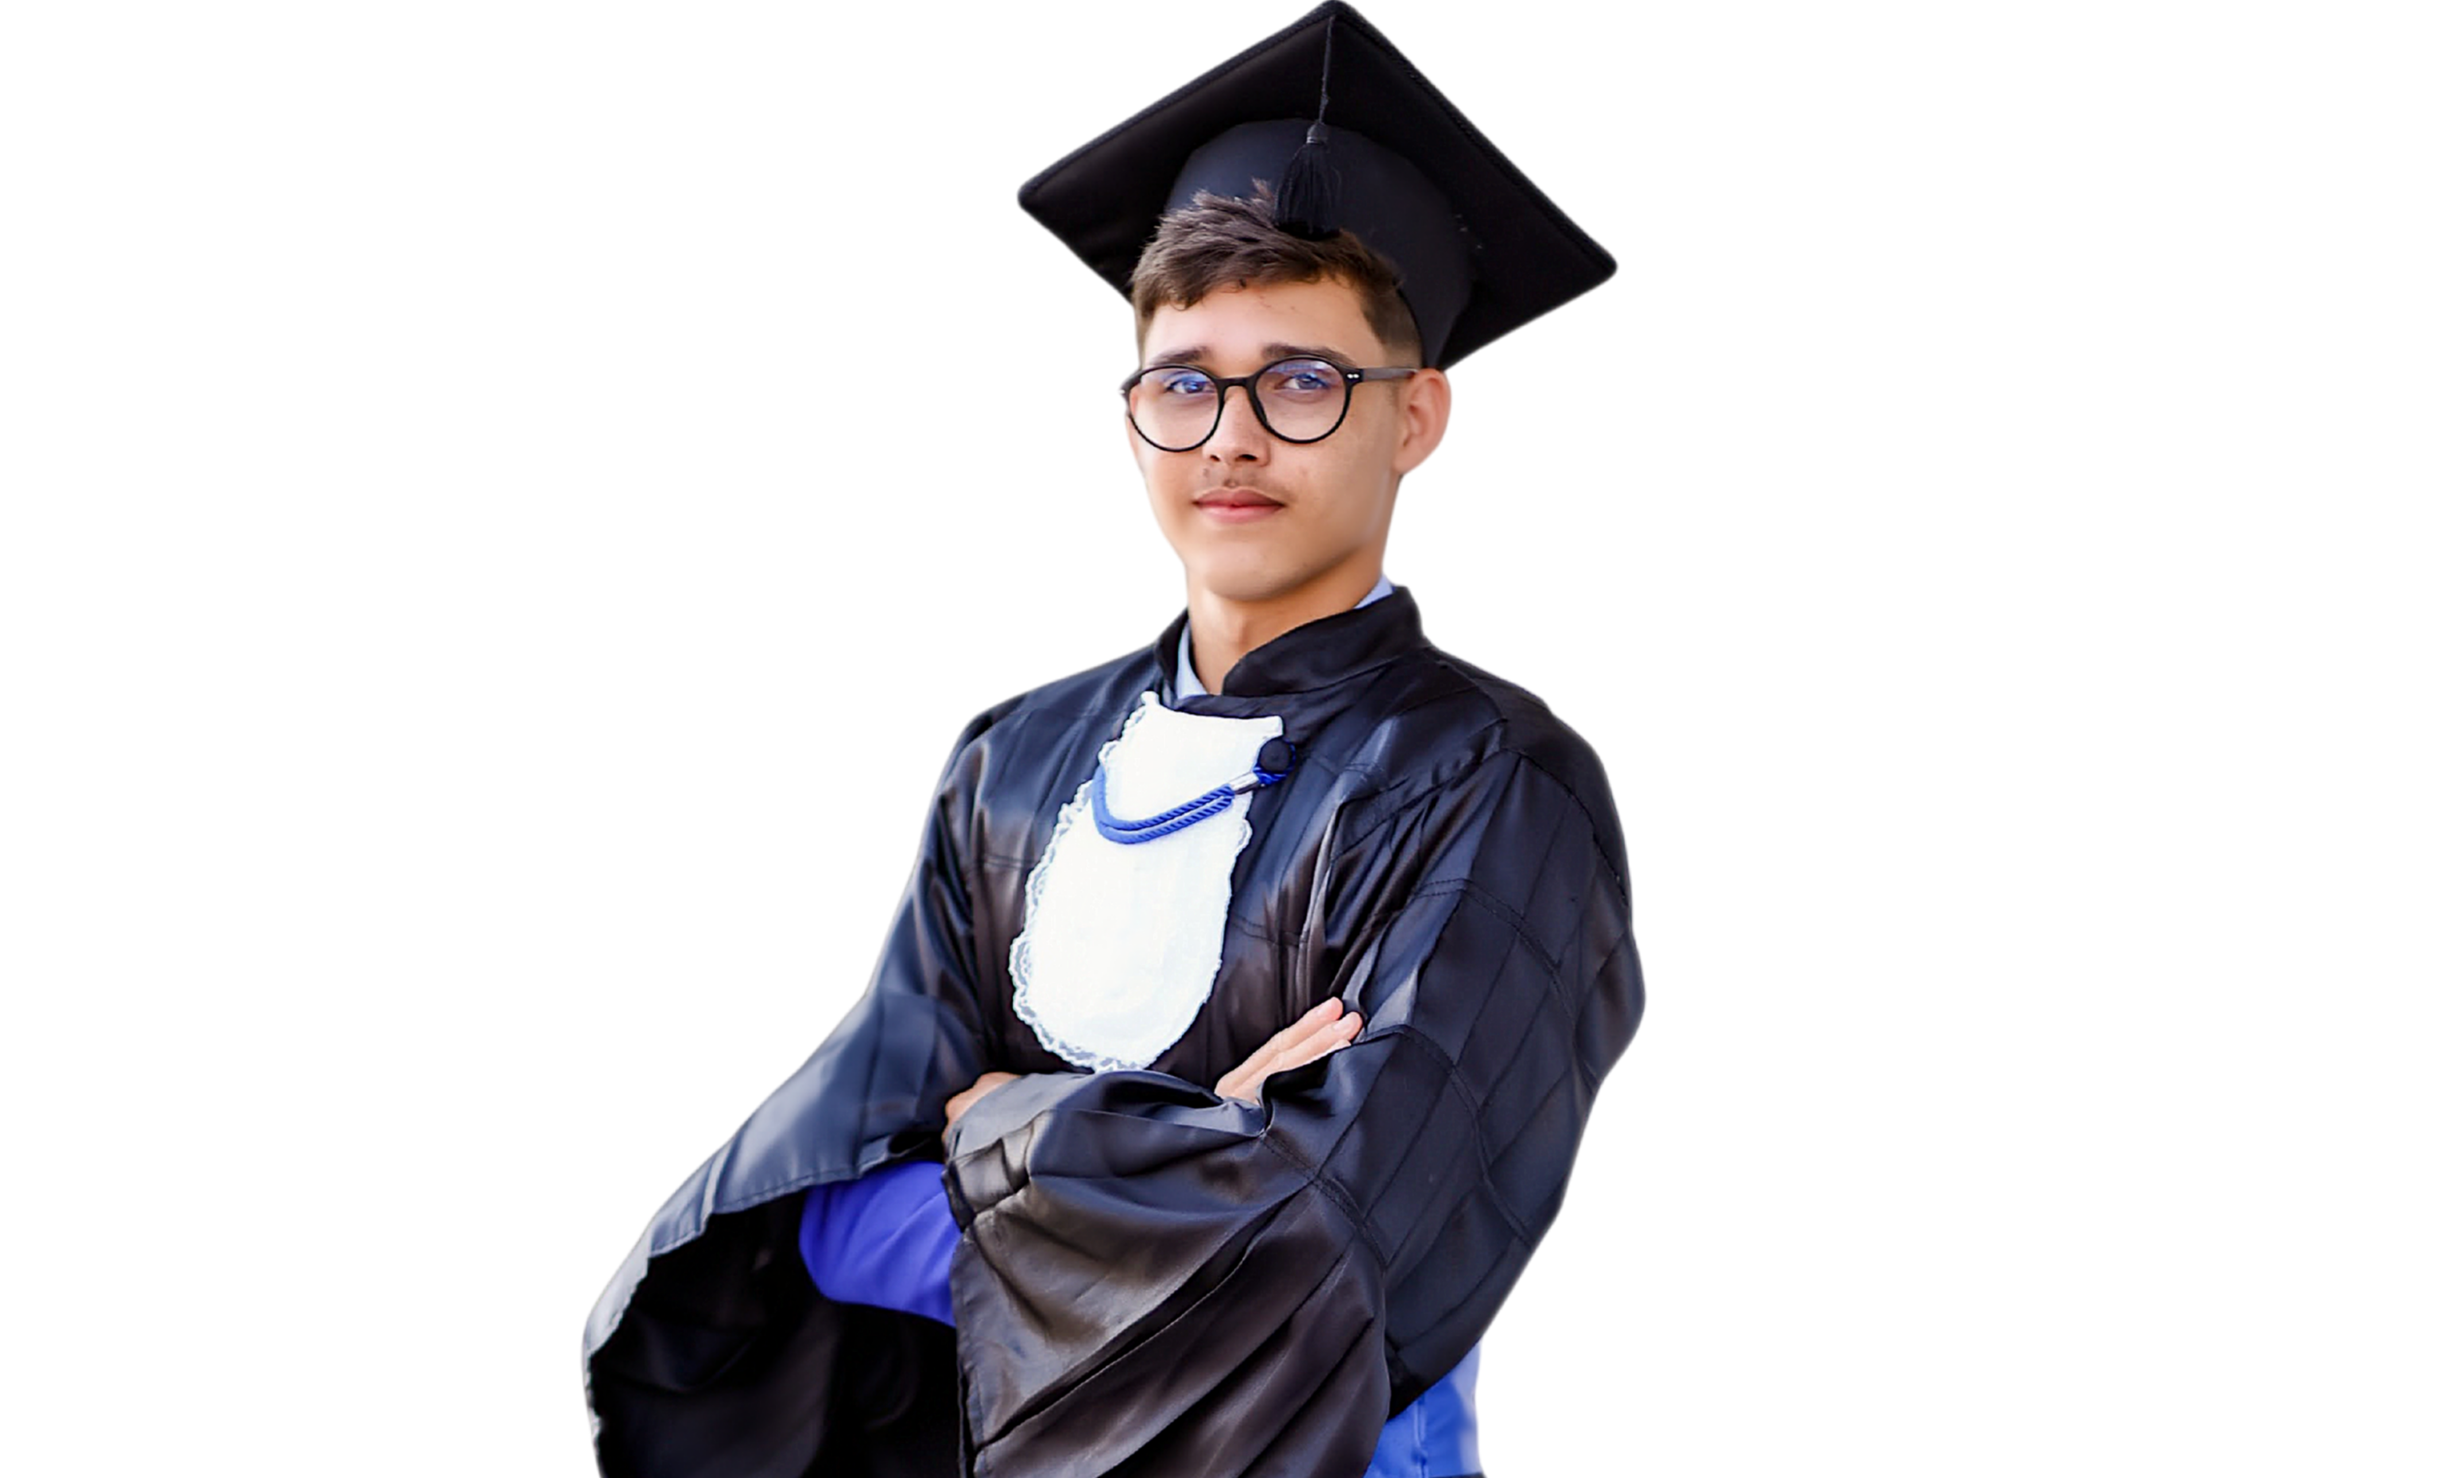
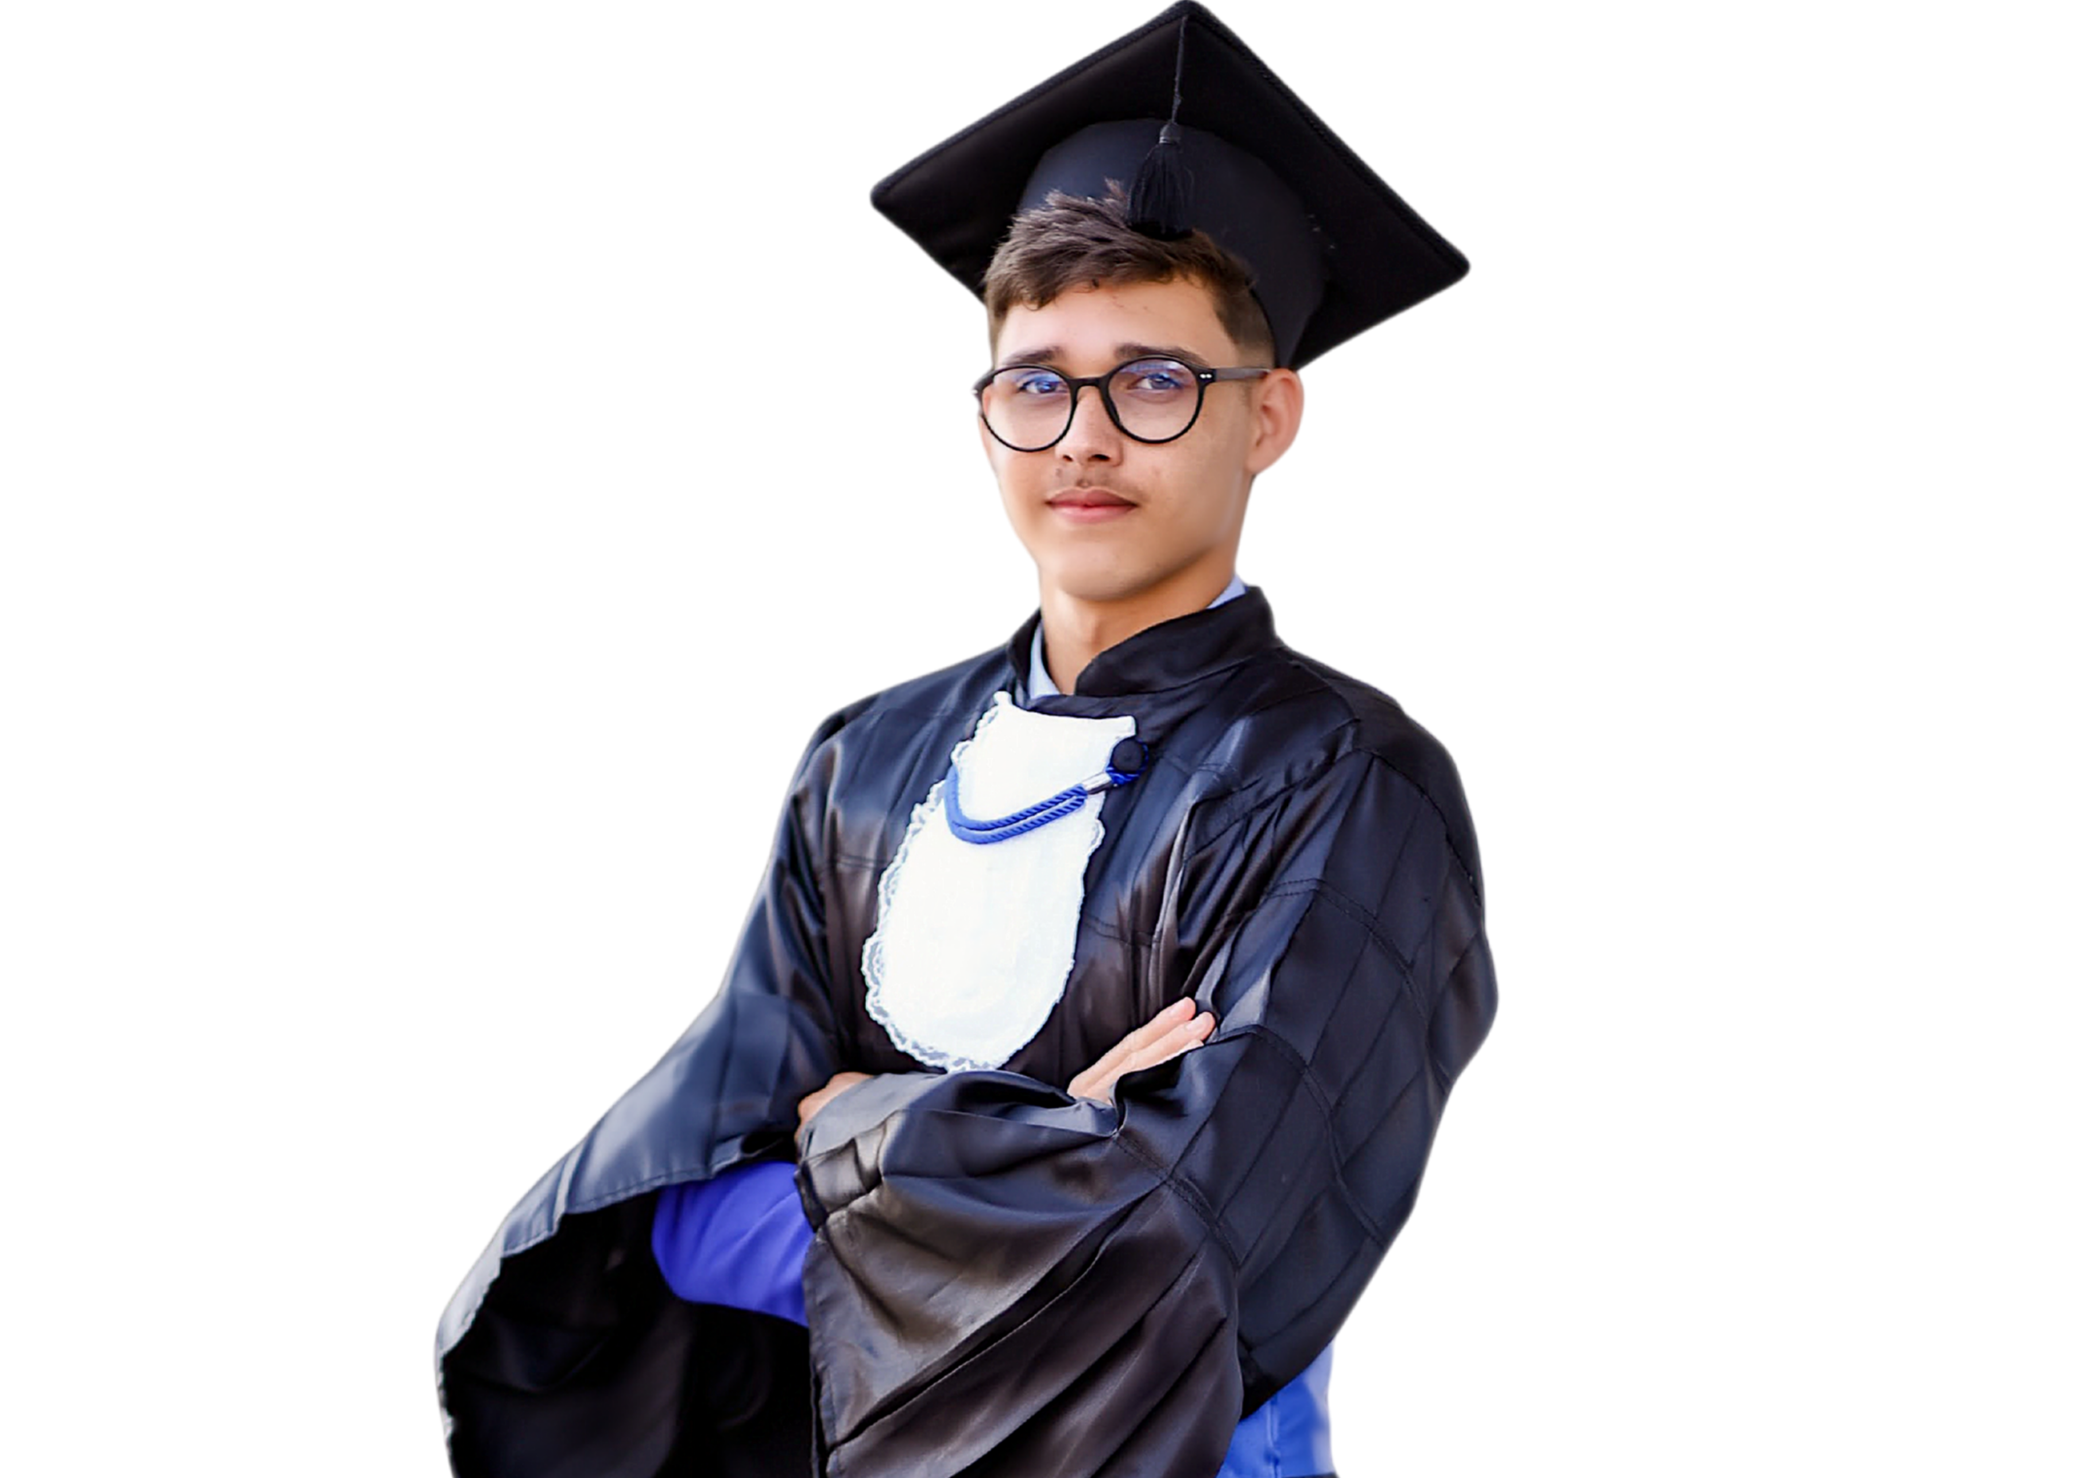
Update feature

Changed region(s): [[0.186, 0.0, 0.713, 1.0], [0.403, 0.1243, 0.434, 0.1553]]

diff --git a/meuPortfolio/index.html b/meuPortfolio/index.html
@@ -7,6 +7,8 @@
     <link rel="stylesheet" href="css/header.css">
     <link rel="stylesheet" href="css/home.css">
     <link rel="stylesheet" href="css/about.css">
+    <link rel="stylesheet" href="css/services.css">
+    <link rel="stylesheet" href="css/responsive.css">
     <link rel="stylesheet" href="https://cdnjs.cloudflare.com/ajax/libs/font-awesome/6.4.0/css/all.min.css" integrity="sha512-iecdLmaskl7CVkqkXNQ/ZH/XLlvWZOJyj7Yy7tcenmpD1ypASozpmT/E0iPtmFIB46ZmdtAc9eNBvH0H/ZpiBw==" crossorigin="anonymous" referrerpolicy="no-referrer" />
     <title>Portfólio Clewerton</title>
 </head>
@@ -22,13 +24,14 @@
                 <li><a href="#contact">Contato</a></li>
             </ul>
         </nav>
+        <i class="fa-solid fa-bars"></i>
     </header>
     <section aria-label="seção currículo download Clewerton" class="section-div">
         <div>
             <h2>Olá, eu sou Clewerton!</h2>
             <h3 class="digitando" id="sft">Softwer Engineer | DevSecOps and IA</h3>
             <p>pt | Estudante de Sistemas de Informação na Universidade do Estado do Amazonas (UEA). Sou entusiasta por tecnologia e minhas principais áreas de interesse são Programação Segura, Inteligência Artificial e DevSecOps.</p>
-            <p>en | Information Systems student at the State University of Amazonas (UEA). I am passionate about technology and my main areas of interest are Secure Coding, Artificial Intelligence, and DevSecOps.</p>
+            <p>en | Information Systems student at the Amazonas State University (UEA). I am passionate about technology and my main areas of interest are Secure Coding, Artificial Intelligence, and DevSecOps.</p>
             <a href="#">Download CV</a>
         </div>
         <img src="img/clewerton.png" alt="Foto de Clewerton" class="foto-clewerton">
@@ -37,9 +40,7 @@
         <article aria-label="seção sobre Clewerton" class="about" id="about">
             <div class="aboutTitle">
                 <h1>Sobre Mim</h1>
-                <p>Sou um estudante de Sistemas de Informação na Universidade do Estado do Amazonas (UEA), com uma paixão por tecnologia e inovação.
-                    Tenho experiência em desenvolvimento de software, segurança cibernética e inteligência artificial.
-                    Estou sempre em busca de novos desafios e oportunidades para expandir meus conhecimentos e habilidades.</p>
+                <p>Conheça um pouco da minha trajetória profissional e pessoal.</p>
                 <div arial-label="seção de botões">
                     <span></span>
                     <span></span>
@@ -61,7 +62,42 @@
             </div>
         </article>
     </main>
+    <div class="my_service" id="resume">
+                <ul aria-label="Navegação secundaria">
+                    <li>
+                        <i class="fa-sharp fa-solid fa-pen-to-square"></i>
+                        <h3>Web Designer</h3>
+                        <p>Lorem ipsum dolor sit amet consectetur, adipisicing elit. Dolore, harum.</p>
+                    </li>
+                    <li>
+                        <i class="fa-solid fa-globe"></i>
+                        <h3>Web Developer</h3>
+                        <p>Lorem ipsum dolor sit amet consectetur, adipisicing elit. Dolore, harum.</p>
+                    </li>
+                    <li>
+                        <i class="fa-solid fa-camera"></i>
+                        <h3>Photography</h3>
+                        <p>Lorem ipsum dolor sit amet consectetur, adipisicing elit. Dolore, harum.</p>
+                    </li>
+                    <li>
+                        <i class="fa-solid fa-layer-group"></i>
+                        <h3>SEO analysis</h3>
+                        <p>Lorem ipsum dolor sit amet consectetur, adipisicing elit. Dolore, harum.</p>
+                    </li>
+                    <li>
+                        <i class="fa-solid fa-medal"></i>
+                        <h3>Creative Design</h3>
+                        <p>Lorem ipsum dolor sit amet consectetur, adipisicing elit. Dolore, harum.</p>
+                    </li>
+                    <li>
+                        <i class="fa-sharp fa-solid fa-palette"></i>
+                        <h3>UX/UI</h3>
+                        <p>Lorem ipsum dolor sit amet consectetur, adipisicing elit. Dolore, harum.</p>
+                    </li>
+                </ul>
+            </div>
+    </section>
 
-    <script src="script.js"></script>
+    <script src="js/script.js"></script>
 </body>
 </html>

diff --git a/meuPortfolio/css/services.css b/meuPortfolio/css/services.css
@@ -1,0 +1,91 @@
+.my_service{
+    background-color: #fff;
+    margin-top: -30px;
+    padding: 60px;
+}
+
+
+.my_service{
+    padding: 60px;
+    color: #fff;
+}
+
+.my_service ul {
+    display: flex;
+    flex-wrap: wrap;
+    gap: 20px;
+    align-items: center;
+    justify-content: center;
+}
+
+.my_service ul li{
+    cursor: pointer;
+    position: relative;
+    padding: 10px;
+    border-radius: 6px;
+    align-content: center;
+    display: grid;
+    gap: 30px;
+    text-align: center;
+    max-width: 300px;
+    height: 300px;
+    background-color: #4076fe;
+
+}
+
+.my_service ul li i {
+    font-size: 2.7rem;
+    color: #fff;
+}
+
+.my_service ul li h3{
+    color: #40fed5;
+    font-size: 1.6rem;
+    font-family: 'Poppins', sans-serif;
+    font-weight: 500;
+}
+
+.my_service ul li p{
+    color: #fff;
+    font-size: 1.1rem;
+}
+
+.my_service li::before{
+    content: '';
+    transition: .5s ease-in-out;
+    border-radius: 6px;
+    width: 0px;
+    height: 0px;
+    position: absolute;
+    top: -2px;
+    right: -2px;
+    border-top: 2px solid transparent;
+    border-right: 2px solid transparent;
+}
+
+.my_service li::after{
+    content: '';
+    transition: .5s ease-in-out;
+    border-radius: 6px;
+    width: 0px;
+    height: 0px;
+    position: absolute;
+    bottom: -2px;
+    left: -2px;
+    border-bottom: 2px solid transparent;
+    border-left: 2px solid transparent;
+}
+
+.my_service li:hover::before{
+    width: 100%;
+    height: 100%;
+    border-top: 2px solid #40fed5;
+    border-right: 2px solid #40fed5;
+}
+
+.my_service li:hover::after{
+    width: 100%;
+    height: 100%;
+    border-bottom: 2px solid #40fed5;
+    border-left: 2px solid #40fed5;
+}

diff --git a/meuPortfolio/css/header.css b/meuPortfolio/css/header.css
@@ -1,5 +1,5 @@
 header {
-    background-color: #000;
+    background-color: #4076fe;
     padding: 10px 20px;
     display: flex;
     align-items: center;
@@ -8,12 +8,12 @@ header {
 }
 
 header h1 {
-    color: #4076fe;
+    color: #fff;
     font-size: 2.5rem;
 }
 
 header span {
-    color: #fff;
+    color: #000;
 }
 
 header .navegacao-primaria {
@@ -27,4 +27,49 @@ header .navegacao-primaria li a {
     padding: 10px;
     color: #fff;
     font-size: 1.3rem;
+}
+
+header .navegacao-primaria li a::after {
+    content: '';
+    width: 0px;
+    height: 0px;
+    border-bottom: 4px solid transparent;
+    display: block;
+    transition: .9s ;
+}
+
+header .navegacao-primaria li a:hover::after {
+    width: 100%;
+    height: 0px;
+    padding: 0px;
+    border-bottom: 4px solid #4076fe;
+}
+
+header .navegacao-primaria{
+    display: none;
+}
+
+header {
+    justify-content: space-between;
+    padding: 30px 70px;
+}
+
+header i{
+    color:#f7f7f7;
+    font-size: 2rem;
+}
+
+header .navegacao-primaria.ativado{
+    background: linear-gradient(rgba(43, 42, 42, 0.176), rgba(46, 46, 46, 0.724));
+    position: absolute;
+    display: grid;
+    top: 80px;
+    color: white;
+    z-index: 1;
+    padding: 30px;
+    font-size: 1.3rem;
+    font-weight: bold;
+    border-radius: 0 0 4px 4px;
+    right: 20px;
+    animation: upSection .8s ease-in-out forwards;
 }

diff --git a/meuPortfolio/css/home.css b/meuPortfolio/css/home.css
@@ -1,6 +1,6 @@
 .section-div {
     animation: inicializar .7s ease forwards;
-    background-color: black;
+    background-color: #fff;
     display: grid;
     grid-template-columns: 1.2fr 1fr;
     align-items: center;
@@ -12,44 +12,46 @@
     margin-top: auto;
     align-self: start;
     display: grid;
-    gap: 30px;
+    gap: 10px;
 }
 
 .foto-clewerton {
     max-width: 100%;
     height: auto;
     display: block;
+    margin-bottom: -60px;
+    margin-top: -12px;
 }
 
 .section-div h2 {
     font-size: 3rem;
-    color: #f7f7f7;
+    color: #4076fe;
 }
 
 #sft {
     font-size: 1.5rem;
-    color: #f7f7f7;
+    color: #000;
 }
 
 .section-div p {
     font-family: 'Poppins', serif;
     font-size: 1rem;
     font-weight: 200;
-    color: #f7f7f7;
+    color: #000;
 }
 
 .section-div a {
     justify-self: start;
     padding: 15px 40px;
-    border: 2px solid #ffff;
-    color: #fff;
+    border: 2px solid #4076fe;
+    color: #4076fe;
     font-size: 1.2rem;
     border-radius: 5px;
     transition: background-color 0.3s ease;
 }
 
 .section-div img {
-    background-color: #000;
+    background-color: #fff;
     max-width: 100%;
     height: auto;
     border-radius: 10px;

diff --git a/meuPortfolio/js/script.js b/meuPortfolio/js/script.js
@@ -1,0 +1,25 @@
+function writeText() {
+    function ativaLetra(elemento) {
+        const arrayTexto = elemento.innerHTML.split('');
+        elemento.innerHTML = '';
+        arrayTexto.forEach((letra, i) => {
+            setTimeout(() => {
+                elemento.innerHTML += letra;
+            }, 75 * i);
+        });
+    }
+
+    const titulo = document.querySelector('.digitando');
+    if (titulo) {
+        ativaLetra(titulo);
+    }
+}
+
+const ativaMenu = document.querySelector('.fa-bars');
+const navMenu = document.querySelector('header .navegacao-primaria');
+
+ativaMenu.addEventListener('click', () => {
+    ativaMenu.classList.toggle('fa-x');
+    navMenu.classList.toggle('ativado');
+})
+

diff --git a/meuPortfolio/css/responsive.css b/meuPortfolio/css/responsive.css
@@ -1,0 +1,35 @@
+@media (max-width: 992px) {
+    .section-div img{
+        grid-column: 1 / -1;
+        grid-row: 1;
+        justify-self: center;
+    }
+    .section-div{
+        grid-column: 1 / -1;
+    }
+    .section-div div{
+        grid-column: 1 / -1;
+        grid-row: 2;
+    }
+    header .navegacao-primaria{
+        display: none;
+    }
+
+    header i{
+        display: block;
+        font-size: 2rem;
+        color: #fff;
+        cursor: pointer;
+    }
+}
+
+
+@media (max-width: 992px) {
+    .about img{
+        grid-column: 1 / -1;
+        justify-self: center;
+    }
+    .sobreConteudo{
+        grid-column: 1 / -1;
+    }
+}
